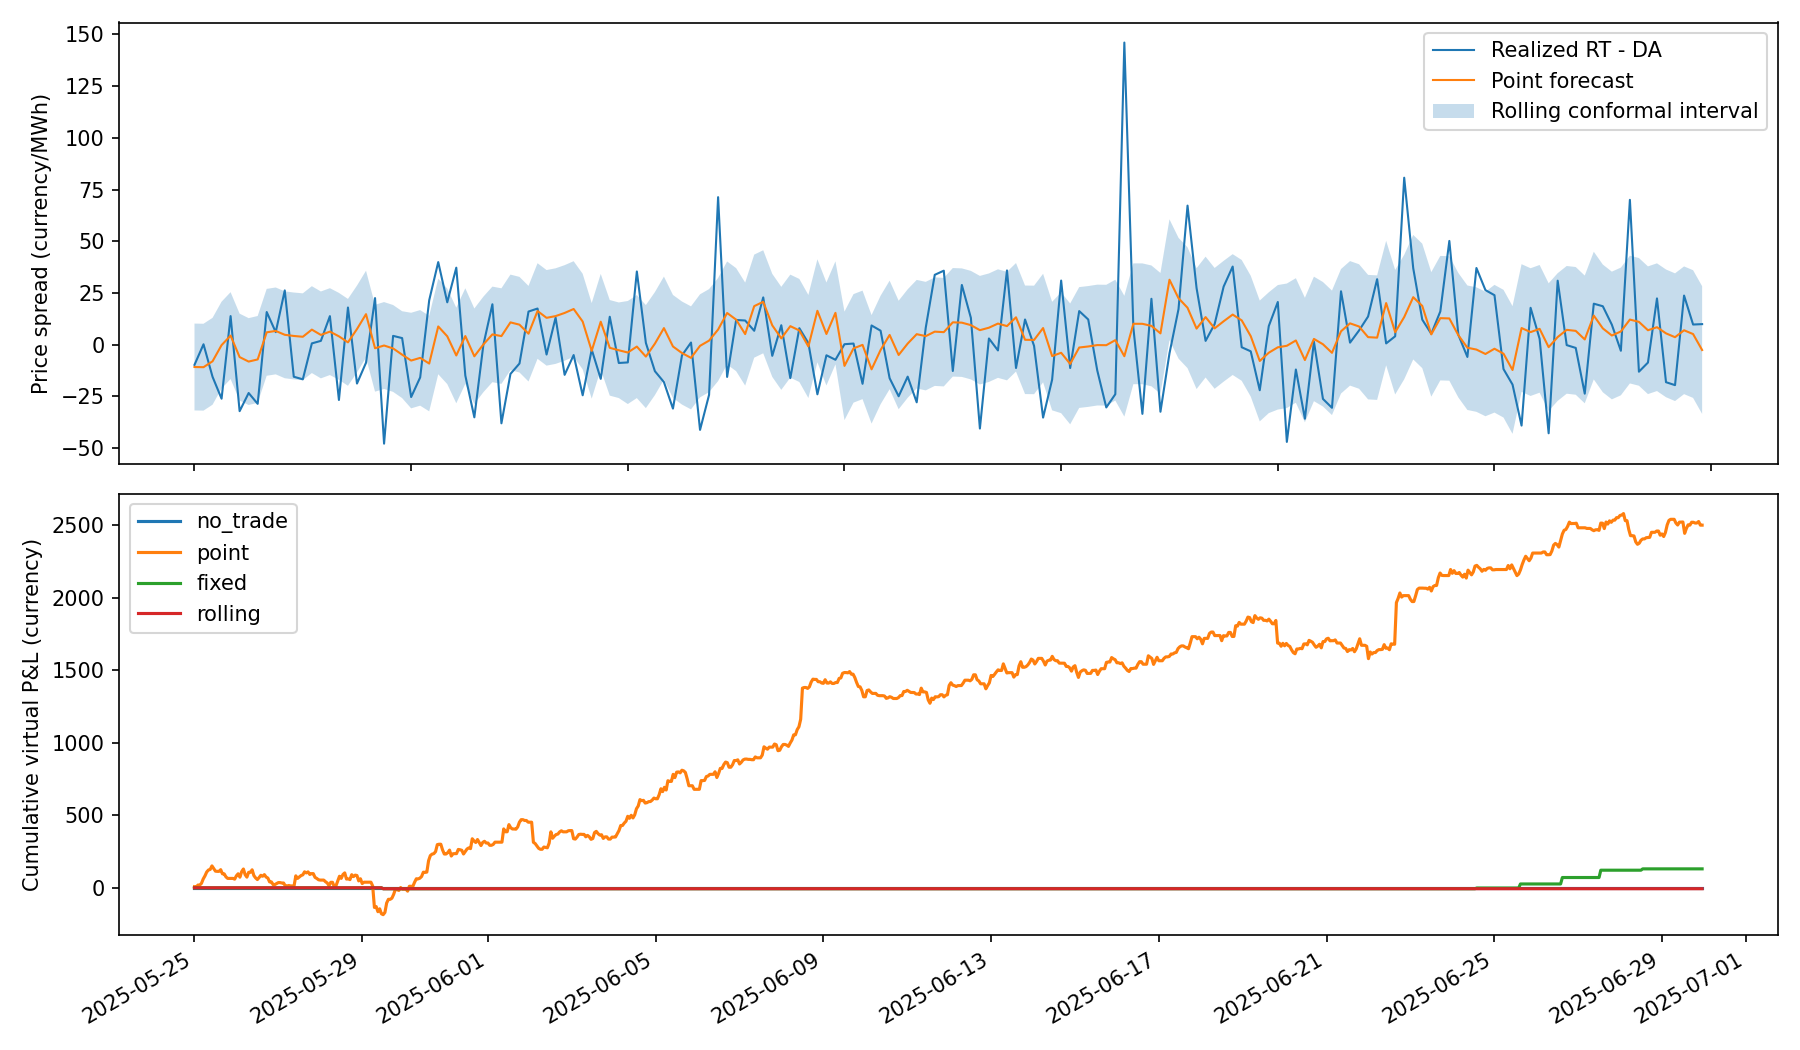
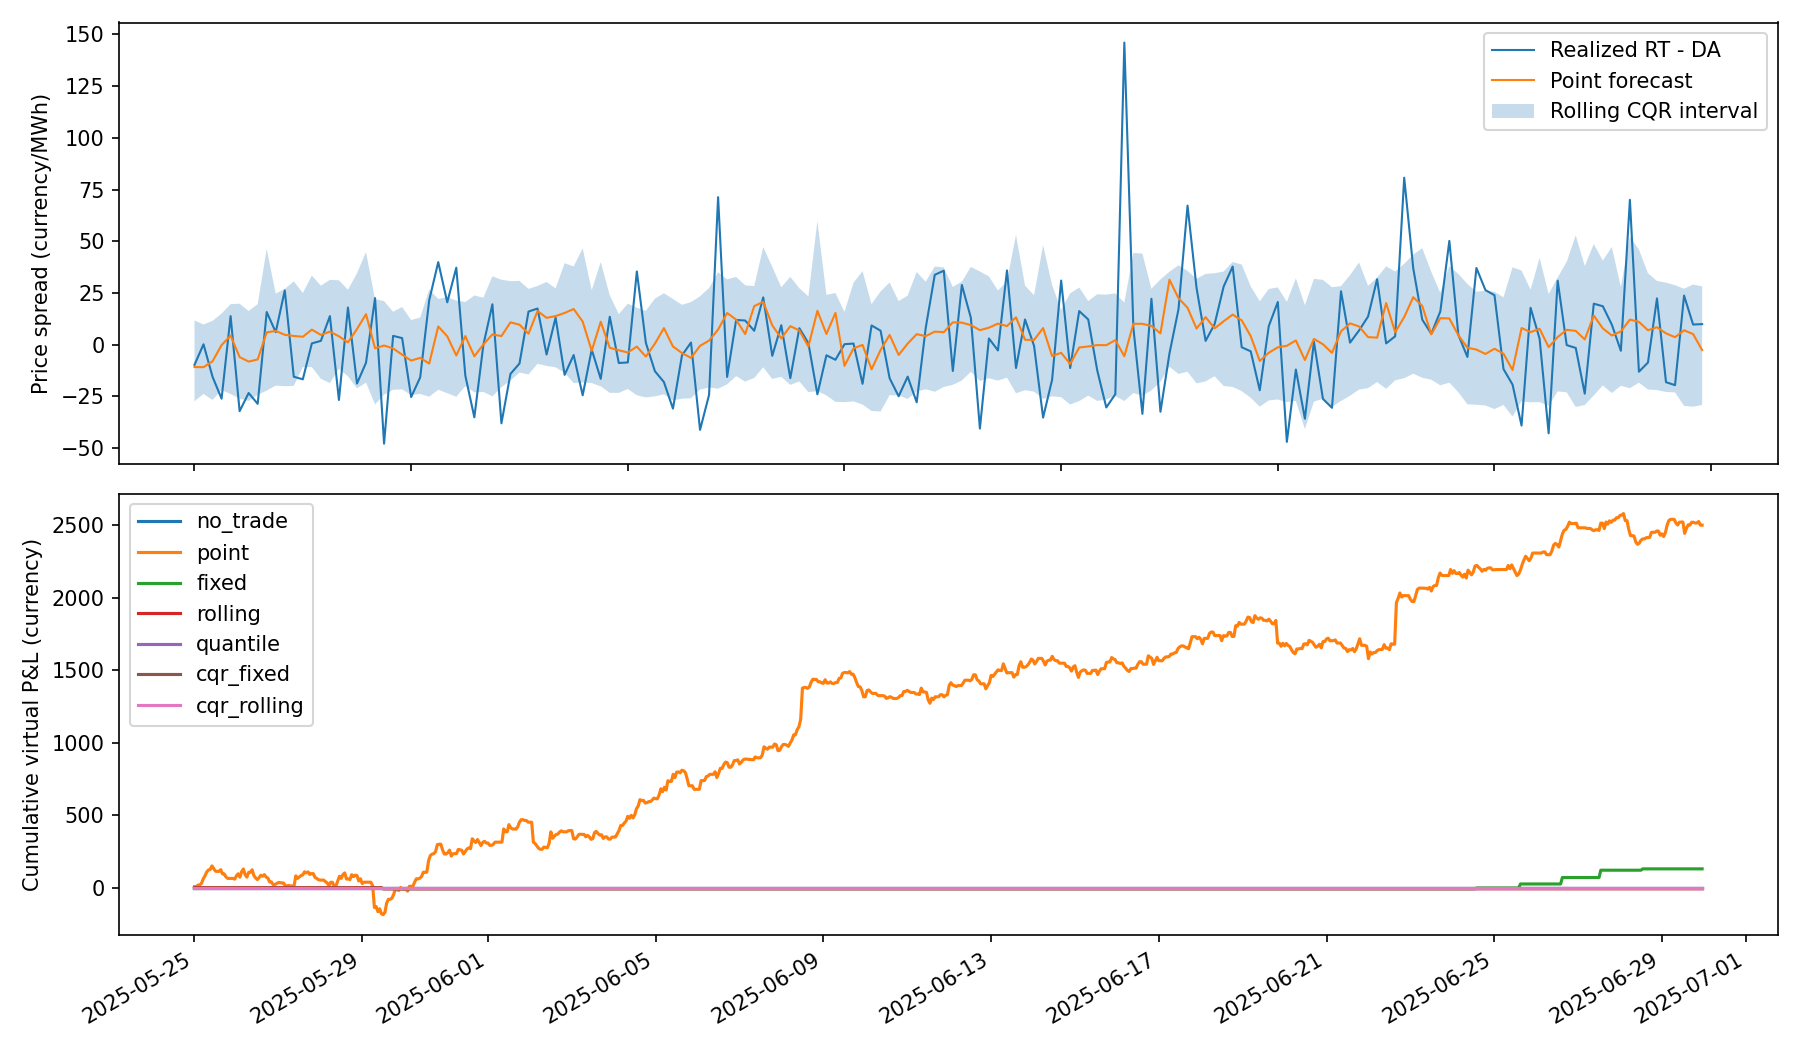
Add quantile regression and fixed and rolling CQR comparisons

diff --git a/experiment.py b/experiment.py
@@ -78,15 +78,45 @@ def daily_intervals(pred, actual, timestamps, calibration_scores, alpha, window)
     This assumes yesterday's settlement prices are available at today's issue time.
     Adapt the update delay to the actual market publication schedule.
     """
+    return daily_calibrated_bounds(pred, pred, actual, timestamps,
+                                   calibration_scores, alpha, window)
+
+
+def nonconformity(lower, upper, actual):
+    """Use expansion-only CQR scores; an already covered label scores zero.
+
+    Clipping at zero is conservative relative to signed CQR and prevents
+    calibrated intervals from shrinking into empty sets.
+    """
+    return np.maximum(np.maximum(lower - actual, actual - upper), 0.)
+
+
+def daily_calibrated_bounds(base_lower, base_upper, actual, timestamps,
+                            calibration_scores, alpha, window):
+    """Calibrate arbitrary base intervals using only completed prior days."""
+    if window < 1:
+        raise ValueError("Window must be positive.")
     history = deque(np.asarray(calibration_scores)[-window:], maxlen=window)
-    lower, upper = np.empty(len(pred)), np.empty(len(pred))
+    lower, upper = np.empty(len(actual)), np.empty(len(actual))
     days = pd.DatetimeIndex(timestamps).floor("D")
     for day in days.unique():
         mask = days == day
         q = conformal_radius(list(history), alpha)
-        lower[mask], upper[mask] = pred[mask] - q, pred[mask] + q
-        history.extend(np.abs(actual[mask] - pred[mask]))
+        lower[mask], upper[mask] = base_lower[mask] - q, base_upper[mask] + q
+        history.extend(nonconformity(base_lower[mask], base_upper[mask], actual[mask]))
     return lower, upper
+
+
+def quantile_bounds(train, frame, target, alpha):
+    """Fit lower/upper quantile models on training data only, then sort crossings."""
+    endpoints = []
+    for quantile in (alpha / 2, 1 - alpha / 2):
+        model = HistGradientBoostingRegressor(
+            loss="quantile", quantile=quantile, max_iter=100,
+            max_leaf_nodes=15, random_state=42)
+        model.fit(train[FEATURES], train[target])
+        endpoints.append(model.predict(frame[FEATURES]))
+    return np.minimum(*endpoints), np.maximum(*endpoints)
 
 
 def interval_metrics(y, pred, lower, upper, alpha):
@@ -105,8 +135,8 @@ def trading_signals(lower, upper, cost):
 
 
 def run(raw, output, alpha=.1, window=24 * 14, cost=2.):
-    if window < 1 or cost < 0:
-        raise ValueError("Window must be positive and cost must be nonnegative.")
+    if not 0 < alpha < 1 or window < 1 or not np.isfinite(cost) or cost < 0:
+        raise ValueError("Require 0 < alpha < 1, a positive window and finite nonnegative cost.")
     df = prepare(raw)
     # Split on whole days so a test day never overlaps calibration.
     days = df["timestamp"].dt.floor("D").drop_duplicates().to_list()
@@ -127,6 +157,19 @@ def run(raw, output, alpha=.1, window=24 * 14, cost=2.):
         q = conformal_radius(residuals, alpha)
         bounds = {"fixed": (pred - q, pred + q),
                   "rolling": daily_intervals(pred, y, test.timestamp, residuals, alpha, window)}
+        # Predict calibration and test endpoints with the same train-only models.
+        quantile_lower, quantile_upper = quantile_bounds(
+            train, pd.concat([cal, test]), target, alpha)
+        cal_lower, lower = quantile_lower[:len(cal)], quantile_lower[len(cal):]
+        cal_upper, upper = quantile_upper[:len(cal)], quantile_upper[len(cal):]
+        scores = nonconformity(cal_lower, cal_upper, cal[target].to_numpy())
+        correction = conformal_radius(scores, alpha)
+        bounds.update({
+            "quantile": (lower, upper),
+            "cqr_fixed": (lower - correction, upper + correction),
+            "cqr_rolling": daily_calibrated_bounds(
+                lower, upper, y, test.timestamp, scores, alpha, window),
+        })
         predictions[f"{target}_prediction"] = pred
         for method, (lower, upper) in bounds.items():
             rows.append({"target": target, "method": method,
@@ -165,10 +208,10 @@ def run(raw, output, alpha=.1, window=24 * 14, cost=2.):
     fig, axes = plt.subplots(2, 1, figsize=(12, 7))
     count = min(168, len(test))
     t = test.timestamp.iloc[:count]
-    lo, hi = spread_bounds["rolling"]
+    lo, hi = spread_bounds["cqr_rolling"]
     axes[0].plot(t, test.spread.iloc[:count], label="Realized RT - DA", linewidth=1)
     axes[0].plot(t, spread_pred[:count], label="Point forecast", linewidth=1)
-    axes[0].fill_between(t, lo[:count], hi[:count], alpha=.25, label="Rolling conformal interval")
+    axes[0].fill_between(t, lo[:count], hi[:count], alpha=.25, label="Rolling CQR interval")
     axes[0].set_ylabel("Price spread (currency/MWh)")
     axes[0].legend()
     for name in signals:

diff --git a/tests/test_experiment.py b/tests/test_experiment.py
@@ -2,10 +2,29 @@
 import unittest
 import numpy as np
 import pandas as pd
-from experiment import conformal_radius, daily_intervals, make_demo, prepare, trading_signals
+from experiment import (conformal_radius, daily_intervals, daily_calibrated_bounds,
+                        nonconformity, make_demo, prepare, trading_signals)
 
 
 class ExperimentTests(unittest.TestCase):
+    def test_cqr_scores_and_finite_sample_expansion(self):
+        lower, upper = np.array([0., 0., 0.]), np.array([2., 2., 2.])
+        scores = nonconformity(lower, upper, np.array([-2., 1., 5.]))
+        np.testing.assert_array_equal(scores, [2., 0., 3.])
+        q = conformal_radius(scores, .25)
+        self.assertEqual(q, 3.)
+        np.testing.assert_array_equal(lower - q, [-3., -3., -3.])
+        np.testing.assert_array_equal(upper + q, [5., 5., 5.])
+
+    def test_cqr_updates_use_base_not_expanded_interval(self):
+        times = pd.date_range("2025-01-01", periods=48, freq="h", tz="UTC")
+        lower, upper, actual = np.zeros(48), np.ones(48), np.full(48, 5.)
+        lo, hi = daily_calibrated_bounds(lower, upper, actual, times,
+                                        np.full(24, 2.), .1, 24)
+        np.testing.assert_array_equal(hi[:24], np.full(24, 3.))
+        np.testing.assert_array_equal(hi[24:], np.full(24, 5.))
+        np.testing.assert_array_equal(lo[24:], np.full(24, -4.))
+
     def test_finite_sample_quantile(self):
         self.assertEqual(conformal_radius(np.arange(1, 10), .2), 8)
         self.assertTrue(np.isinf(conformal_radius([1, 2], .1)))

diff --git a/README.md b/README.md
@@ -35,12 +35,20 @@ $$C(x)=[\hat f(x)-q,\ \hat f(x)+q].$$
 
 当 $k>n$ 时返回无限半径，保留有限样本定义，而不是人为截断分位数。默认 $\alpha=0.1$，即目标覆盖率 90%。在交换性条件成立时，该方法有有限样本边际覆盖保证。电价时间序列存在自相关和漂移，因此本实验仅通过样本外覆盖率评价，**不声称严格保证在该序列上成立**。
 
-比较两种校准：
+首先比较两种绝对残差校准：
 
 | 方法 | 校准方式 | 特点 |
 |---|---|---|
 | Fixed | 整个校准集残差，测试期保持不变 | 简单，但可能无法适应分布变化 |
 | Rolling | 最近 336 小时残差，每天更新一次 | 可以适应近期波动，也可能滞后、变宽 |
+
+新增三组分位数方法：`quantile` 是不加校准的上下分位数回归基线；`cqr_fixed` 与 `cqr_rolling` 分别做固定和滚动校准。上下界模型只在训练集拟合，分位点为 $\alpha/2$ 和 $1-\alpha/2$；若分位数交叉，先排序后再计算校准分数。点预测 MAE 始终使用同一个均值回归模型，避免把区间方法变化误写成点预测改进。
+
+采用 expansion-only CQR 分数：
+
+$$s_i=\max\{\hat q_L(x_i)-y_i,\ y_i-\hat q_U(x_i),\ 0\}.$$
+
+用相同的有限样本分位数得到修正量 $q$，区间为 $[\hat q_L(x)-q,\hat q_U(x)+q]$。与允许负分数的标准 signed CQR 相比，该版本只扩大基础区间，不收缩，可能更保守；这是本项目的独立设计，不声称来自目标论文。滚动更新使用**原始分位数区间**的分数，不能误用已经扩张后的区间来计算下一次分数。
 
 每天先生成当天全部区间，待当天标签实现后才更新下一天的残差窗口。同一天内的标签不会影响当天区间。这里假设上一天的结算价格在下一次预测前可获得；若真实市场公布更晚，需要延迟更新。滚动区间不是自适应覆盖率算法的完整实现，也没有自动恢复交换性保证。
 
@@ -63,7 +71,7 @@ $$IS_\alpha=(U-L)+\frac{2}{\alpha}(L-y)_++\frac{2}{\alpha}(y-U)_+.$$
 - 当 $U<-c$：持有 -1 MWh 价差头寸。
 - 其他情况：不交易。
 
-每个交割小时结算收益为 $\pi_t=a_t(P_{RT,t}-P_{DA,t})-c|a_t|$。对比不交易、仅点预测、固定区间、滚动区间四种策略；输出累计收益、成交小时数、每笔平均收益和最大回撤。各小时头寸独立，最大回撤从初始零收益开始计算，没有年化 Sharpe 等不稳健统计。
+每个交割小时结算收益为 $\pi_t=a_t(P_{RT,t}-P_{DA,t})-c|a_t|$。对比不交易、仅点预测、固定区间、滚动区间及三种分位数区间策略；输出累计收益、成交小时数、每笔平均收益和最大回撤。各小时头寸独立，最大回撤从初始零收益开始计算，没有年化 Sharpe 等不稳健统计。
 
 这是**虚拟价差结算演示**，并不是可直接实盘的交易策略。它假设可按结算价完成两端交易且没有滑点、资金、保证金和流动性约束。真实平衡市场可能要求有物理资产、调度资格或按偏差结算，不能把实时平衡价格普遍视为自由可交易的现货价格。
 
@@ -127,39 +135,53 @@ timestamp,load_forecast,wind_forecast,price_da,price_rt
 
 180 天合成数据经滞后处理后，训练 2,544 行、校准 864 行、测试 864 行。以下为本仓库默认命令实际输出，数值保留三位：
 
-| 目标 | 校准 | MAE | 覆盖率 | 平均宽度 | Interval score |
+| 目标 | 方法 | MAE | 覆盖率 | 平均宽度 | Interval score |
 |---|---|---:|---:|---:|---:|
-| 日前 | Fixed | 6.963 | 69.10% | 17.357 | 48.176 |
-| 日前 | Rolling | 6.963 | 86.34% | 27.238 | 38.001 |
-| 实时 | Fixed | 20.583 | 68.75% | 49.982 | 154.253 |
-| 实时 | Rolling | 20.583 | 86.34% | 79.124 | 128.595 |
-| 价差 | Fixed | 19.552 | 65.74% | 43.842 | 150.913 |
-| 价差 | Rolling | 19.552 | 86.23% | 72.445 | 121.248 |
+| price_da | fixed | 6.963 | 69.10% | 17.357 | 48.176 |
+| price_da | rolling | 6.963 | 86.34% | 27.238 | 38.001 |
+| price_da | quantile | 6.963 | 62.38% | 14.969 | 55.568 |
+| price_da | cqr_fixed | 6.963 | 70.72% | 18.420 | 47.360 |
+| price_da | cqr_rolling | 6.963 | 86.81% | 27.348 | 38.112 |
+| price_rt | fixed | 20.583 | 68.75% | 49.982 | 154.253 |
+| price_rt | rolling | 20.583 | 86.34% | 79.124 | 128.595 |
+| price_rt | quantile | 20.583 | 58.22% | 39.636 | 181.788 |
+| price_rt | cqr_fixed | 20.583 | 69.56% | 50.208 | 154.119 |
+| price_rt | cqr_rolling | 20.583 | 86.69% | 78.183 | 128.804 |
+| spread | fixed | 19.552 | 65.74% | 43.842 | 150.913 |
+| spread | rolling | 19.552 | 86.23% | 72.445 | 121.248 |
+| spread | quantile | 19.552 | 56.48% | 36.841 | 172.459 |
+| spread | cqr_fixed | 19.552 | 65.51% | 43.591 | 153.031 |
+| spread | cqr_rolling | 19.552 | 86.34% | 72.573 | 122.990 |
 
 | 策略 | 成交小时数 | 累计虚拟收益 | 最大回撤 |
 |---|---:|---:|---:|
-| 不交易 | 0 | 0.000 | 0.000 |
-| 点预测 | 686 | 2498.623 | 336.095 |
-| 固定区间 | 6 | 130.597 | 6.185 |
-| 滚动区间 | 1 | -6.185 | 6.185 |
+| no_trade | 0 | 0.000 | 0.000 |
+| point | 686 | 2498.623 | 336.095 |
+| fixed | 6 | 130.597 | 6.185 |
+| rolling | 1 | -6.185 | 6.185 |
+| quantile | 0 | 0.000 | 0.000 |
+| cqr_fixed | 0 | 0.000 | 0.000 |
+| cqr_rolling | 0 | 0.000 | 0.000 |
 
 结果文件见 [预测指标](reports/demo_metrics.csv) 与 [交易统计](reports/demo_trading_summary.csv)。
 
 ![Synthetic demonstration results](reports/demo_results.png)
 
-**我的解读：** 人为噪声漂移使固定区间明显欠覆盖；滚动校准改善覆盖率和 interval score，但依然没有达到目标 90%，不能写成“覆盖保证已验证”。更宽的区间也大幅减少交易，在本次演示中只产生一笔亏损交易。因此，区间预测有助于表达风险，但不能推出盈利更高。这也是保留不理想结果而不事后调整阈值的原因。模拟收益不证明真实市场存在套利，更不能代表论文结果。
+**我的解读：** 人为噪声漂移使固定区间明显欠覆盖；滚动校准改善覆盖率和 interval score，但依然没有达到目标 90%，不能写成“覆盖保证已验证”。更宽的区间也大幅减少交易，在本次演示中只产生一笔亏损交易。新增 rolling CQR 的价差覆盖率约为 86.34%，同样未达到 90%；三种分位数区间交易策略均未开仓。因此，区间预测有助于表达风险，但不能推出盈利更高。这也是保留不理想结果而不事后调整阈值的原因。模拟收益不证明真实市场存在套利，更不能代表论文结果。
 
 ## 7. 可继续改进的方向
 
 1. 使用论文原始市场、时间跨度和预测发布时点，并加入季节性简单基线；明确验证集调参与最终测试集的边界。
-2. 用 conformalized quantile regression 构建非对称、随特征变化的区间，适应尖峰及负价；当前绝对残差方法在同一天使用相同半径。
+2. 对已实现的 CQR 尝试不同分位数模型与预先确定的窗口，并对比 signed CQR；基础分位数区间可以随特征变化，滚动修正量在同一天相同。
 3. 检查峰谷时段、价格尖峰与月份的分组覆盖率；尝试具有明确更新规则的 adaptive conformal 方法。
 4. 加入真实偏差结算、仓位限制、滑点、保证金和资产约束，使用多段走步回测并估计收益不确定性。
 
 ## 8. 文件说明与参考
 
-- `experiment.py`：模拟数据、时间划分、模型、固定/滚动校准、交易回测及图表。
-- `tests/test_experiment.py`：有限样本分位数、日内信息泄漏、滞后特征与时间缺口、头寸方向与成本核算测试。
+- `experiment.py`：模拟数据、时间划分、模型、固定/滚动残差校准、分位数回归、固定/滚动 CQR、交易回测及图表。
+- `tests/test_experiment.py`：有限样本分位数、日内信息泄漏、滞后特征与时间缺口、头寸方向与成本核算，以及 CQR 分数和更新逻辑测试。
 - `reports/`：本次模拟演示的实测摘要与图。
 
 方法参考：Angelopoulos & Bates, *A Gentle Introduction to Conformal Prediction and Distribution-Free Uncertainty Quantification*, https://arxiv.org/abs/2107.07511 。该文作为通用方法背景，不是上述电力论文的替代来源。目标电力论文的作者、年份、DOI 和具体实验设置待获得正文后补充，避免编造引用。
+
+CQR 方法背景：Romano, Patterson & Candès, *Conformalized Quantile Regression*, https://arxiv.org/abs/1905.03222 。本实现为上述只扩张的变体，非该论文官方代码。
